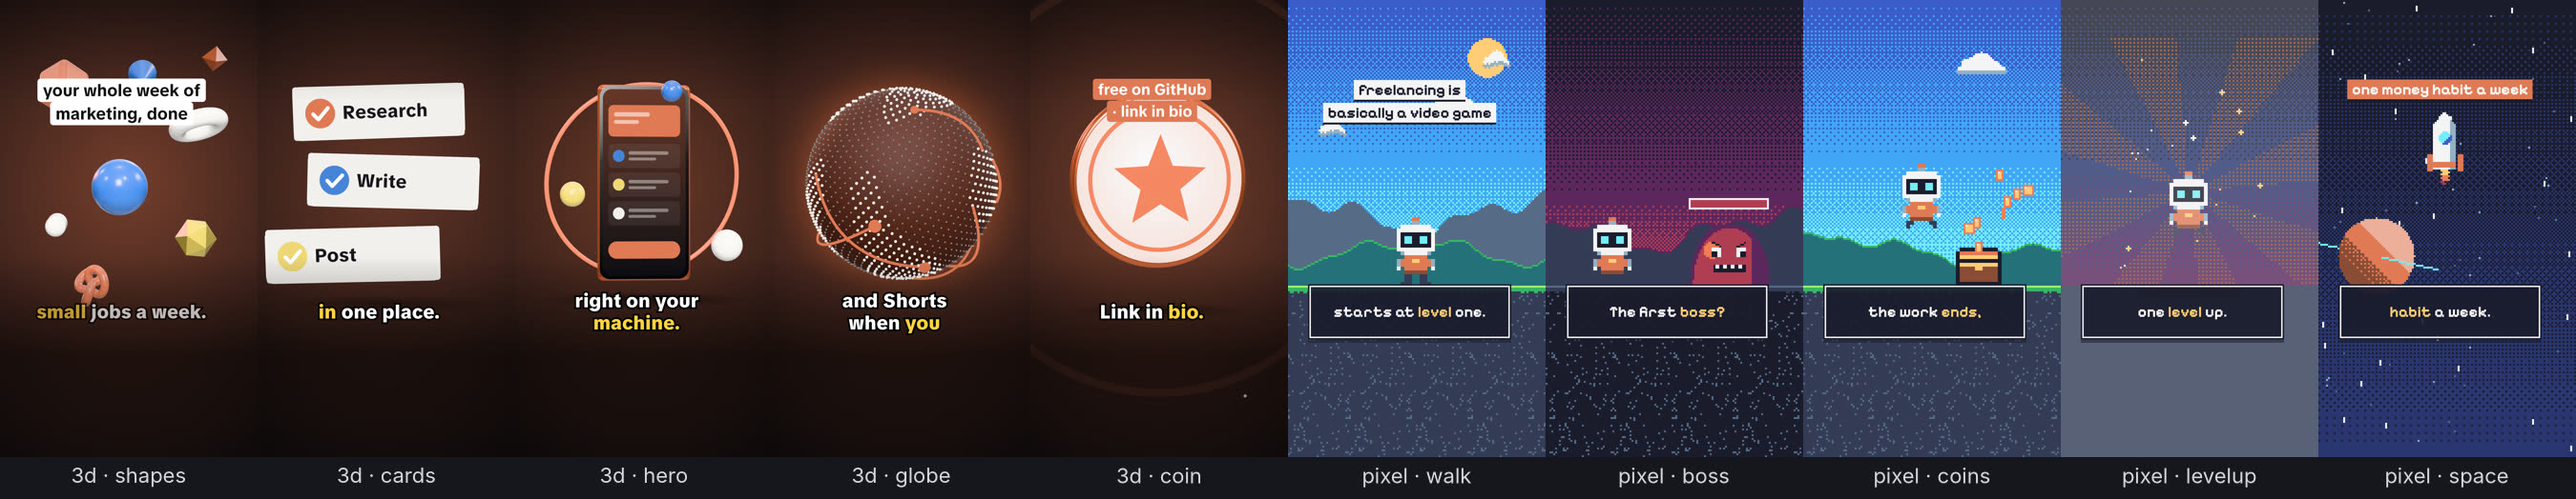
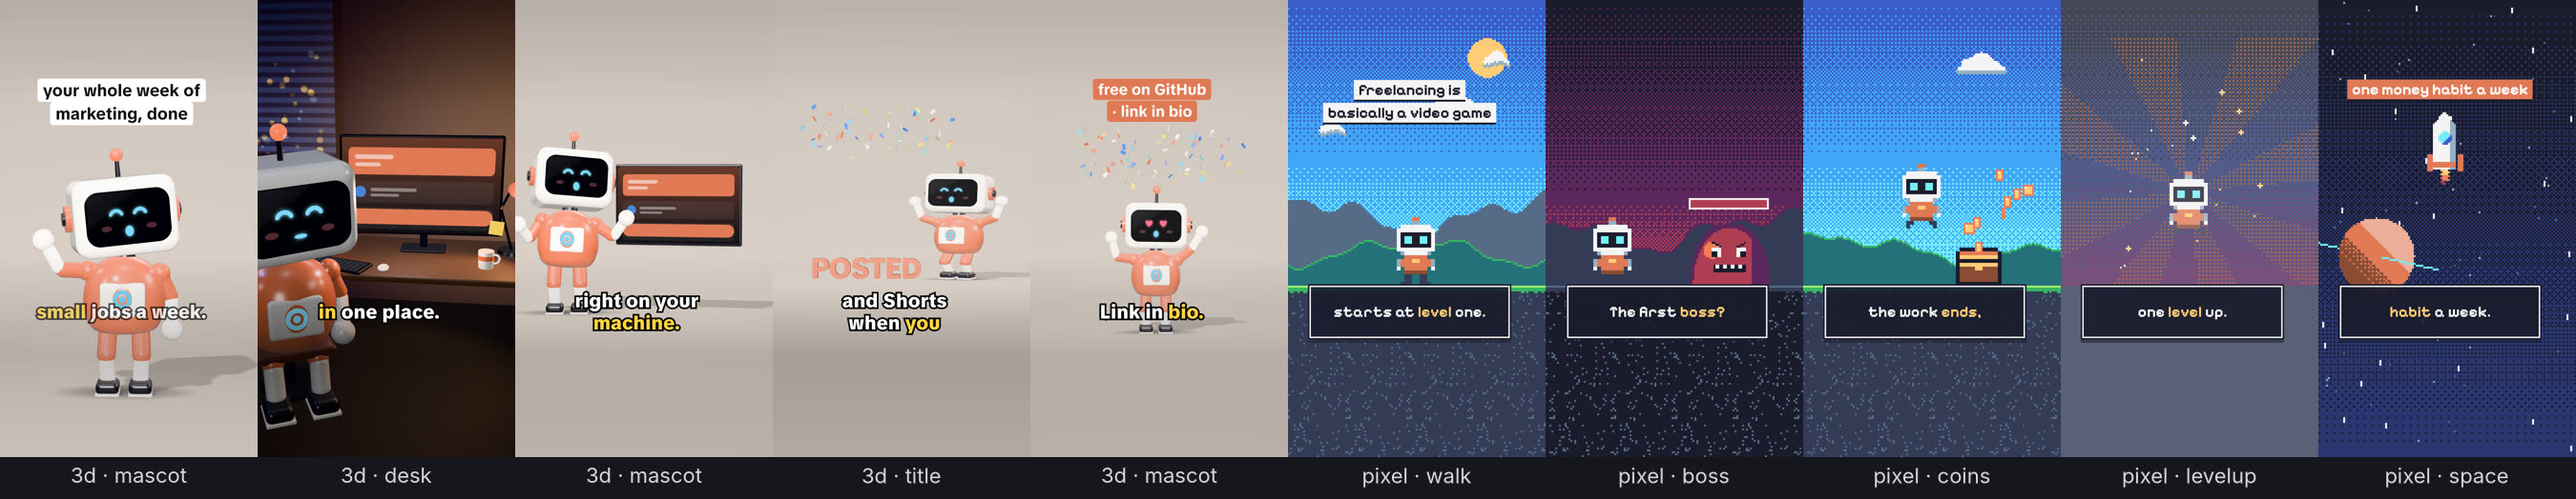
Mascot walks in from the frame's edge, cheers clear of the top text
The walk now starts at the edge of the frame rather than off it, so its
shot never opens on an empty floor; a cheer leaves room above the head
for its jump; and the gallery's animation strip shows the mascot, desk,
and title shots.

Claude-Session: https://claude.ai/code/session_01Ubm4aynKVNUwaMxFJY6nEd

diff --git a/scripts/video/templates/3d.html b/scripts/video/templates/3d.html
@@ -1281,8 +1281,8 @@ const ACTIONS = {
   },
 
   walk(lt, c) {
-    const D = 2.0; // seconds of walking in, from off to the side
-    const dist = 2.6;
+    const D = 1.6; // seconds of walking in, from the edge of the frame
+    const dist = 1.75;
     const k = clamp(lt / D);
     const period = 0.62;
     const step = dist / (D / period) / 2;
@@ -1351,7 +1351,7 @@ const ACTIONS = {
   },
 };
 const TALK_POSE = () => mixPose(REST, TALK, 1);
-const ACTION_EVENTS = { cheer: { jump: 0.35, land: 0.85 }, walk: { stop: 2.0 }, point: { point: 0.35 }, present: { open: 0.4 } };
+const ACTION_EVENTS = { cheer: { jump: 0.35, land: 0.85 }, walk: { stop: 1.6 }, point: { point: 0.35 }, present: { open: 0.4 } };
 
 // ---- props: what the mascot holds or shows (always the user's own screenshot, logo, or words)
 // The user's screenshot on a screen w x h: cropped to fill it, or with fit 'contain' whole, over a
@@ -1549,6 +1549,9 @@ const raised = ([y0, y1, p0, p1]) => {
   return [y0, y1, p0 - up, p1 - 150];
 };
 
+// A cheer jumps about half a unit: room above the head so it stays clear of the text at the top.
+const jumpRoom = ([y0, y1, p0, p1], jumps) => (jumps ? [y0, y1 + 0.5, p0, p1] : [y0, y1, p0, p1]);
+
 // Frames a span of the scene: world heights y0..y1 at pixel rows p0..p1 (feet at the bottom),
 // from `push` times the distance that takes, `orbit` radians around, a little above eye level.
 function frameSpan(camera, [y0, y1, p0, p1], { x = 0, z = 0, push = 1, orbit = 0, lift = 0.35 } = {}) {
@@ -1645,11 +1648,11 @@ SHOTS.mascot = async (el, shot) => {
   prop?.group.traverse((o) => { if (o.isMesh) o.castShadow = true; });
   const standX = prop && prop.kind === 'screen' ? -0.62 : 0;
   const frame = el.dataset.frame || (prop && prop.kind === 'screen' ? 'wide' : prop || ['wave', 'talk', 'point', 'thumbs', 'think', 'shrug', 'wow'].includes(action) ? 'mid' : 'full');
-  const span = raised(topText && frame !== 'wide' ? (frame === 'mid' ? SPAN.midLow : SPAN.low) : SPAN[frame] || SPAN.full);
+  const span = jumpRoom(raised(topText && frame !== 'wide' ? (frame === 'mid' ? SPAN.midLow : SPAN.low) : SPAN[frame] || SPAN.full), action === 'cheer');
   const blob = contactShadow(1.4, 0.004, 0.42);
   scene.add(blob);
   // on the cover (the first shot at frame 0) the action is already under way, and a prop already up
-  const settle = shot.first ? Math.max({ wave: 0.55, cheer: 1.1, walk: 2.6, point: 0.6, present: 0.7, thumbs: 0.6, think: 0.6, shrug: 0.5, sad: 0.7, wow: 0.35 }[action] || 0, prop ? 0.6 : 0) : 0;
+  const settle = shot.first ? Math.max({ wave: 0.55, cheer: 1.1, walk: 2.2, point: 0.6, present: 0.7, thumbs: 0.6, think: 0.6, shrug: 0.5, sad: 0.7, wow: 0.35 }[action] || 0, prop ? 0.6 : 0) : 0;
   const fx = {
     confetti: action === 'cheer' ? confetti(scene) : null,
     dots: action === 'think' ? thoughtDots(rig.root) : null,
@@ -2056,7 +2059,8 @@ SHOTS.title = async (el, shot) => {
         ctx.t = shot.in + lt; ctx.words = spokenWords();
         const after = shot.first ? 9 : lt - done;
         let p = ACTIONS.present(Math.min(lt, 0.5) + 0.1, ctx);
-        if (after > 0) p = mixPose(p, ACTIONS.cheer(after + 0.0, ctx), smooth(after, 0, 0.2));
+        if (after > 0) p = mixPose(p, ACTIONS.cheer(after, ctx), smooth(after, 0, 0.2));
+        p.y *= 0.5; // a smaller hop beside the letters
         p = { ...alive(p, lt, 2.2), x: 1.05, z: -0.35, turn: -0.35 };
         applyPose(rig, p);
         blob.position.set(p.x, 0.004, p.z);
@@ -2066,7 +2070,7 @@ SHOTS.title = async (el, shot) => {
         fx(Math.max(0, lt - done) + (shot.first ? 0.8 : 0), 0.1, V(-0.2, 1.6, 0.4));
       }
       const k = inOut(lt / shot.dur);
-      frameSpan(camera, raised(topText ? [-0.02, 2.3, 600, 1200] : [-0.02, 2.3, 420, 1170]), { x: withMascot ? 0.15 : 0, push: lerp(1.05, 0.97, k), orbit: 0.08 * Math.sin(lt * 0.3) });
+      frameSpan(camera, jumpRoom(raised(topText ? [-0.02, 2.3, 600, 1200] : [-0.02, 2.3, 420, 1170]), withMascot), { x: withMascot ? 0.15 : 0, push: lerp(1.05, 0.97, k), orbit: 0.08 * Math.sin(lt * 0.3) });
     },
   };
 };

diff --git a/scripts/video/templates/mascot.py b/scripts/video/templates/mascot.py
@@ -428,8 +428,8 @@ const ACTIONS = {
   },
 
   walk(lt, c) {
-    const D = 2.0; // seconds of walking in, from off to the side
-    const dist = 2.6;
+    const D = 1.6; // seconds of walking in, from the edge of the frame
+    const dist = 1.75;
     const k = clamp(lt / D);
     const period = 0.62;
     const step = dist / (D / period) / 2;
@@ -498,7 +498,7 @@ const ACTIONS = {
   },
 };
 const TALK_POSE = () => mixPose(REST, TALK, 1);
-const ACTION_EVENTS = { cheer: { jump: 0.35, land: 0.85 }, walk: { stop: 2.0 }, point: { point: 0.35 }, present: { open: 0.4 } };
+const ACTION_EVENTS = { cheer: { jump: 0.35, land: 0.85 }, walk: { stop: 1.6 }, point: { point: 0.35 }, present: { open: 0.4 } };
 
 // ---- props: what the mascot holds or shows (always the user's own screenshot, logo, or words)
 // The user's screenshot on a screen w x h: cropped to fill it, or with fit 'contain' whole, over a
@@ -696,6 +696,9 @@ const raised = ([y0, y1, p0, p1]) => {
   return [y0, y1, p0 - up, p1 - 150];
 };
 
+// A cheer jumps about half a unit: room above the head so it stays clear of the text at the top.
+const jumpRoom = ([y0, y1, p0, p1], jumps) => (jumps ? [y0, y1 + 0.5, p0, p1] : [y0, y1, p0, p1]);
+
 // Frames a span of the scene: world heights y0..y1 at pixel rows p0..p1 (feet at the bottom),
 // from `push` times the distance that takes, `orbit` radians around, a little above eye level.
 function frameSpan(camera, [y0, y1, p0, p1], { x = 0, z = 0, push = 1, orbit = 0, lift = 0.35 } = {}) {
@@ -792,11 +795,11 @@ SHOTS.mascot = async (el, shot) => {
   prop?.group.traverse((o) => { if (o.isMesh) o.castShadow = true; });
   const standX = prop && prop.kind === 'screen' ? -0.62 : 0;
   const frame = el.dataset.frame || (prop && prop.kind === 'screen' ? 'wide' : prop || ['wave', 'talk', 'point', 'thumbs', 'think', 'shrug', 'wow'].includes(action) ? 'mid' : 'full');
-  const span = raised(topText && frame !== 'wide' ? (frame === 'mid' ? SPAN.midLow : SPAN.low) : SPAN[frame] || SPAN.full);
+  const span = jumpRoom(raised(topText && frame !== 'wide' ? (frame === 'mid' ? SPAN.midLow : SPAN.low) : SPAN[frame] || SPAN.full), action === 'cheer');
   const blob = contactShadow(1.4, 0.004, 0.42);
   scene.add(blob);
   // on the cover (the first shot at frame 0) the action is already under way, and a prop already up
-  const settle = shot.first ? Math.max({ wave: 0.55, cheer: 1.1, walk: 2.6, point: 0.6, present: 0.7, thumbs: 0.6, think: 0.6, shrug: 0.5, sad: 0.7, wow: 0.35 }[action] || 0, prop ? 0.6 : 0) : 0;
+  const settle = shot.first ? Math.max({ wave: 0.55, cheer: 1.1, walk: 2.2, point: 0.6, present: 0.7, thumbs: 0.6, think: 0.6, shrug: 0.5, sad: 0.7, wow: 0.35 }[action] || 0, prop ? 0.6 : 0) : 0;
   const fx = {
     confetti: action === 'cheer' ? confetti(scene) : null,
     dots: action === 'think' ? thoughtDots(rig.root) : null,
@@ -1203,7 +1206,8 @@ SHOTS.title = async (el, shot) => {
         ctx.t = shot.in + lt; ctx.words = spokenWords();
         const after = shot.first ? 9 : lt - done;
         let p = ACTIONS.present(Math.min(lt, 0.5) + 0.1, ctx);
-        if (after > 0) p = mixPose(p, ACTIONS.cheer(after + 0.0, ctx), smooth(after, 0, 0.2));
+        if (after > 0) p = mixPose(p, ACTIONS.cheer(after, ctx), smooth(after, 0, 0.2));
+        p.y *= 0.5; // a smaller hop beside the letters
         p = { ...alive(p, lt, 2.2), x: 1.05, z: -0.35, turn: -0.35 };
         applyPose(rig, p);
         blob.position.set(p.x, 0.004, p.z);
@@ -1213,7 +1217,7 @@ SHOTS.title = async (el, shot) => {
         fx(Math.max(0, lt - done) + (shot.first ? 0.8 : 0), 0.1, V(-0.2, 1.6, 0.4));
       }
       const k = inOut(lt / shot.dur);
-      frameSpan(camera, raised(topText ? [-0.02, 2.3, 600, 1200] : [-0.02, 2.3, 420, 1170]), { x: withMascot ? 0.15 : 0, push: lerp(1.05, 0.97, k), orbit: 0.08 * Math.sin(lt * 0.3) });
+      frameSpan(camera, jumpRoom(raised(topText ? [-0.02, 2.3, 600, 1200] : [-0.02, 2.3, 420, 1170]), withMascot), { x: withMascot ? 0.15 : 0, push: lerp(1.05, 0.97, k), orbit: 0.08 * Math.sin(lt * 0.3) });
     },
   };
 };
